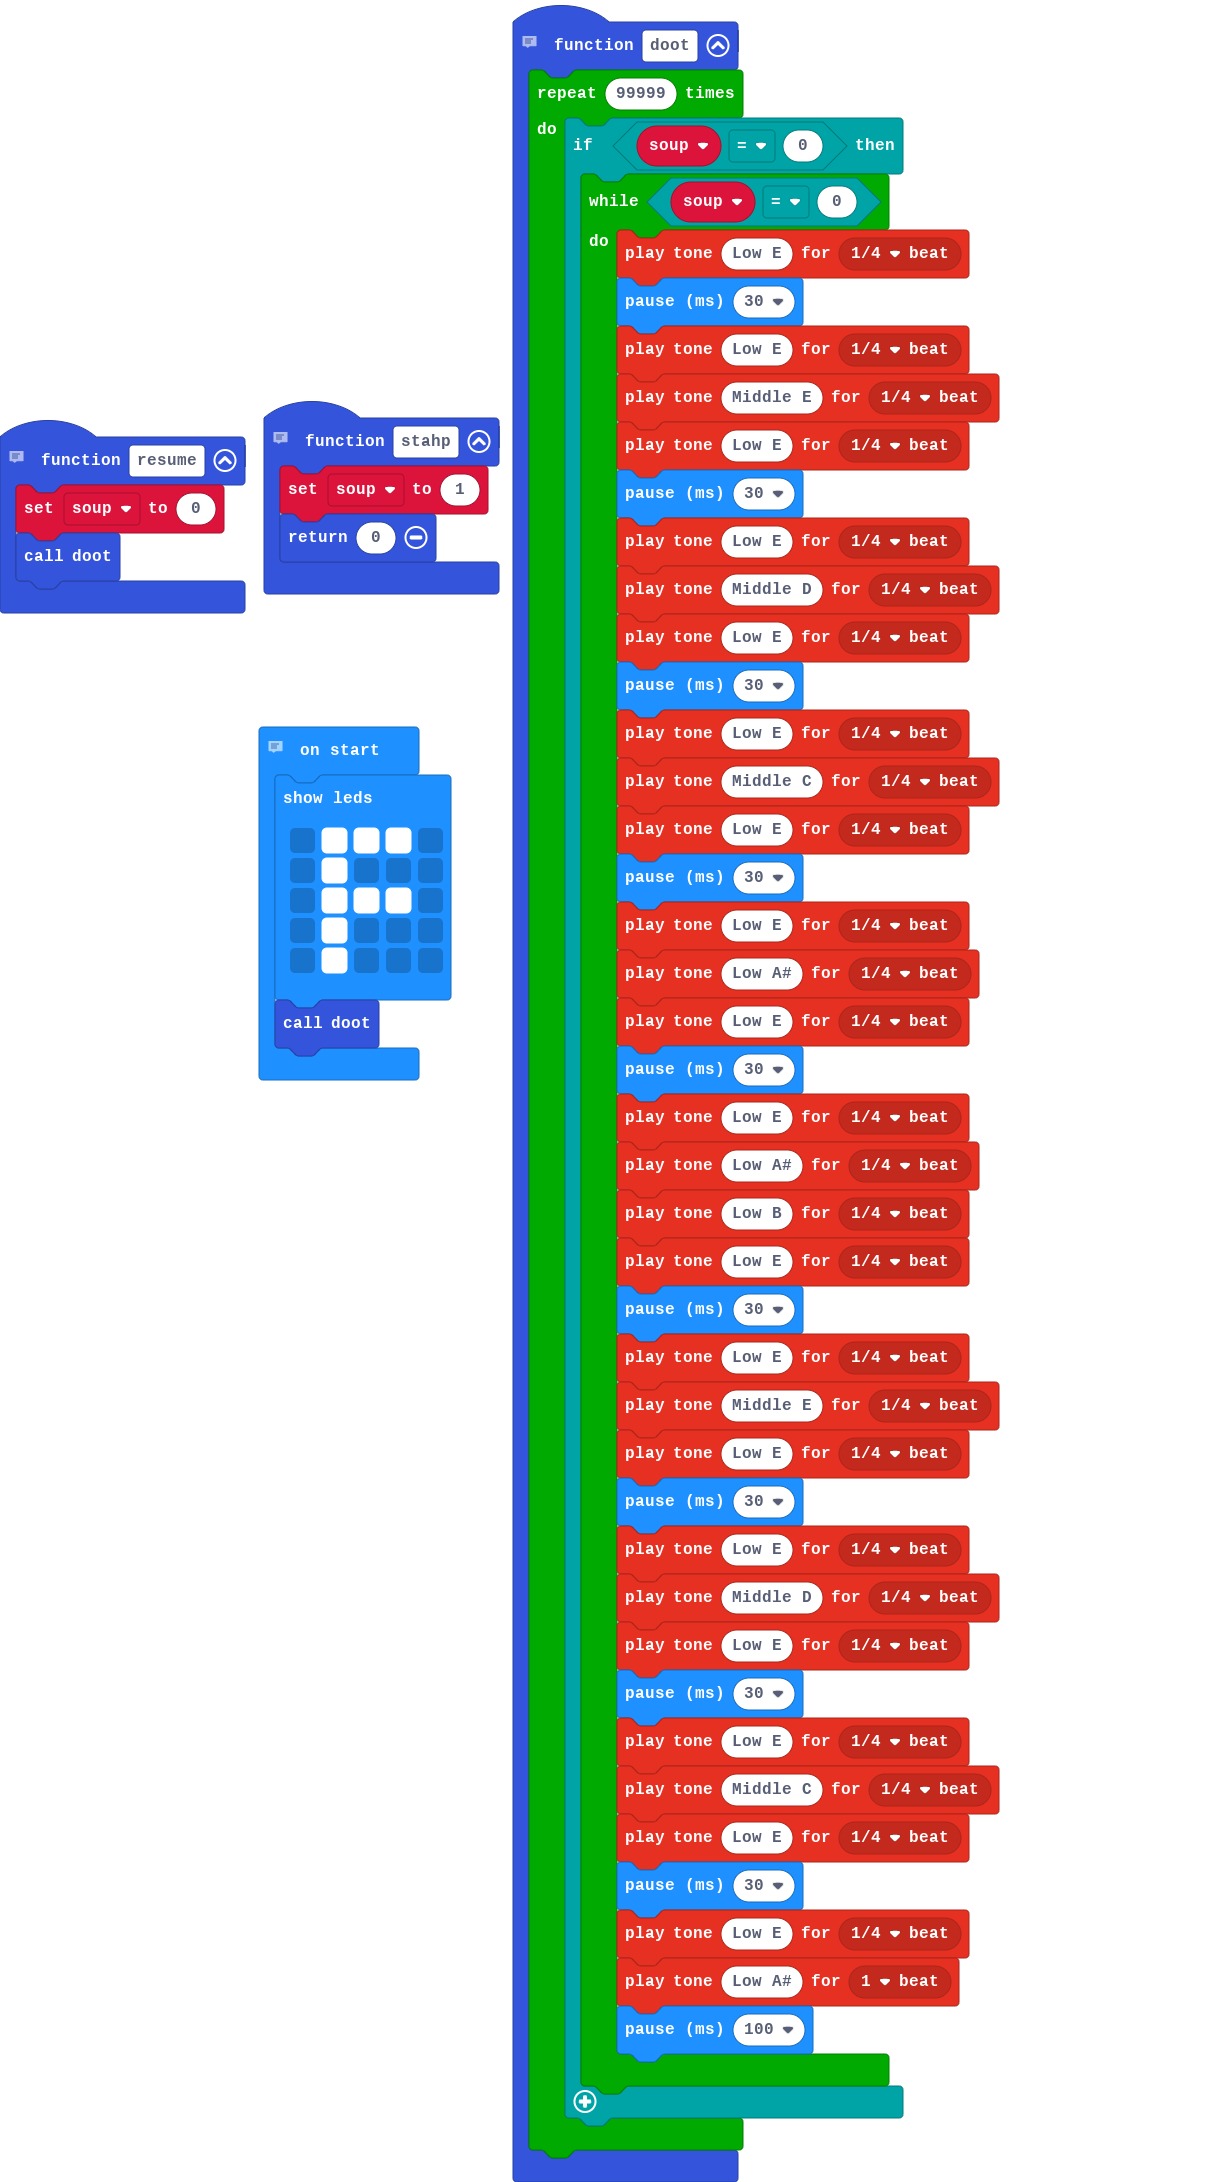
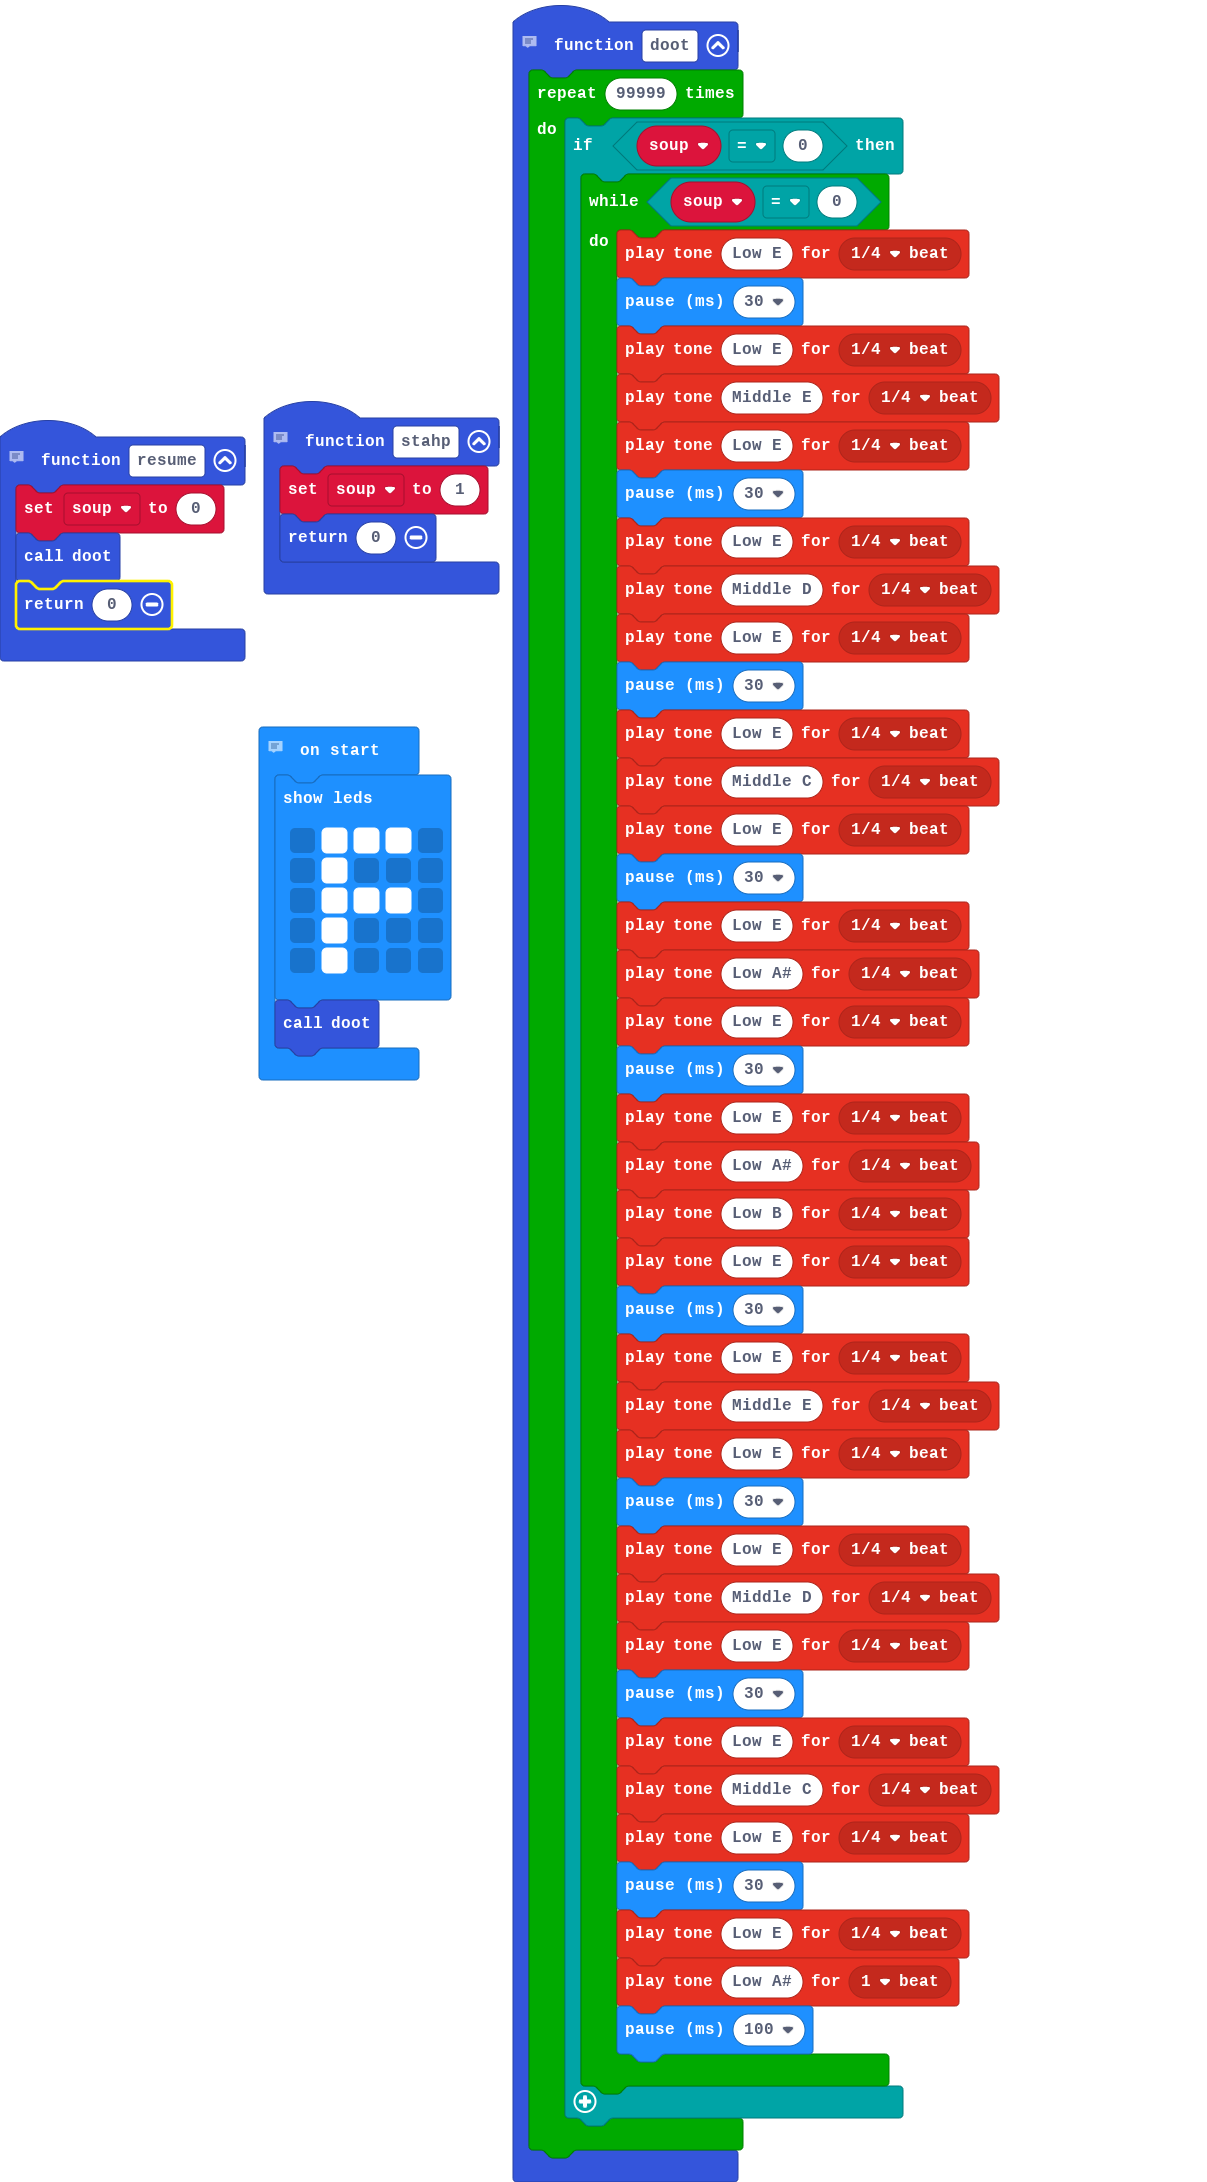
added return 0 at the end of the resume function

Changed region(s): [[0.0, 0.2493, 0.2146, 0.3116]]

diff --git a/main.ts b/main.ts
@@ -49,6 +49,7 @@ function doot () {
 function resume () {
     soup = 0
     doot()
+    return 0
 }
 // stop the main functionality of the "doot" function
 function stahp () {
